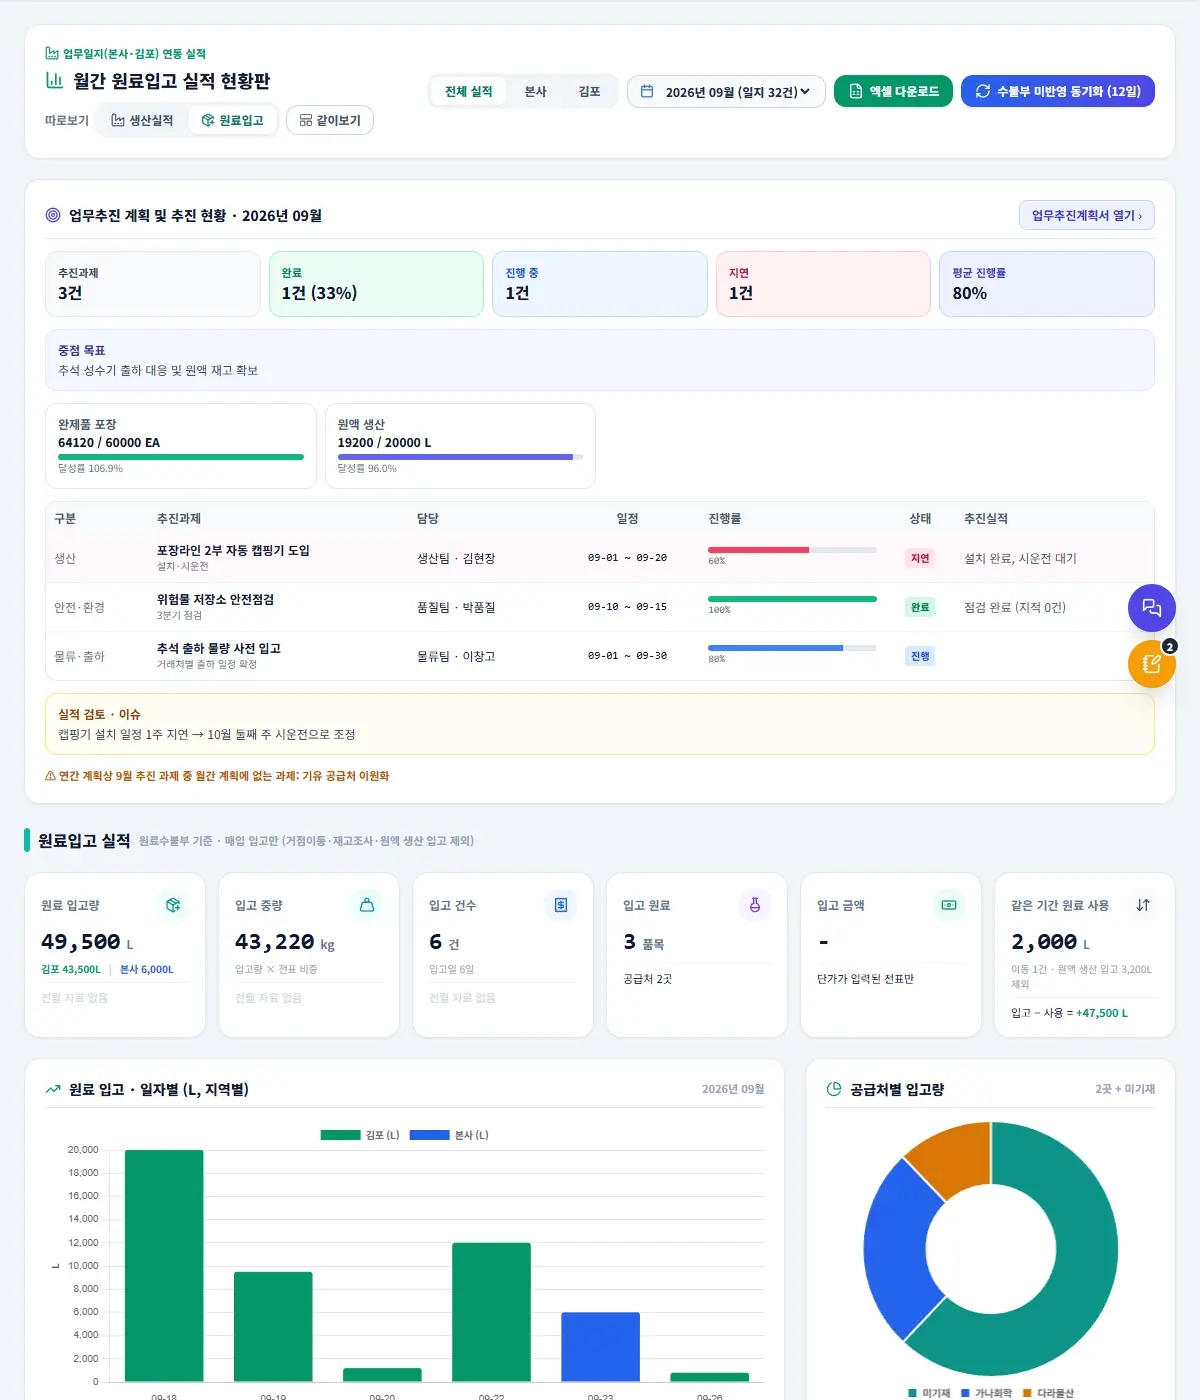
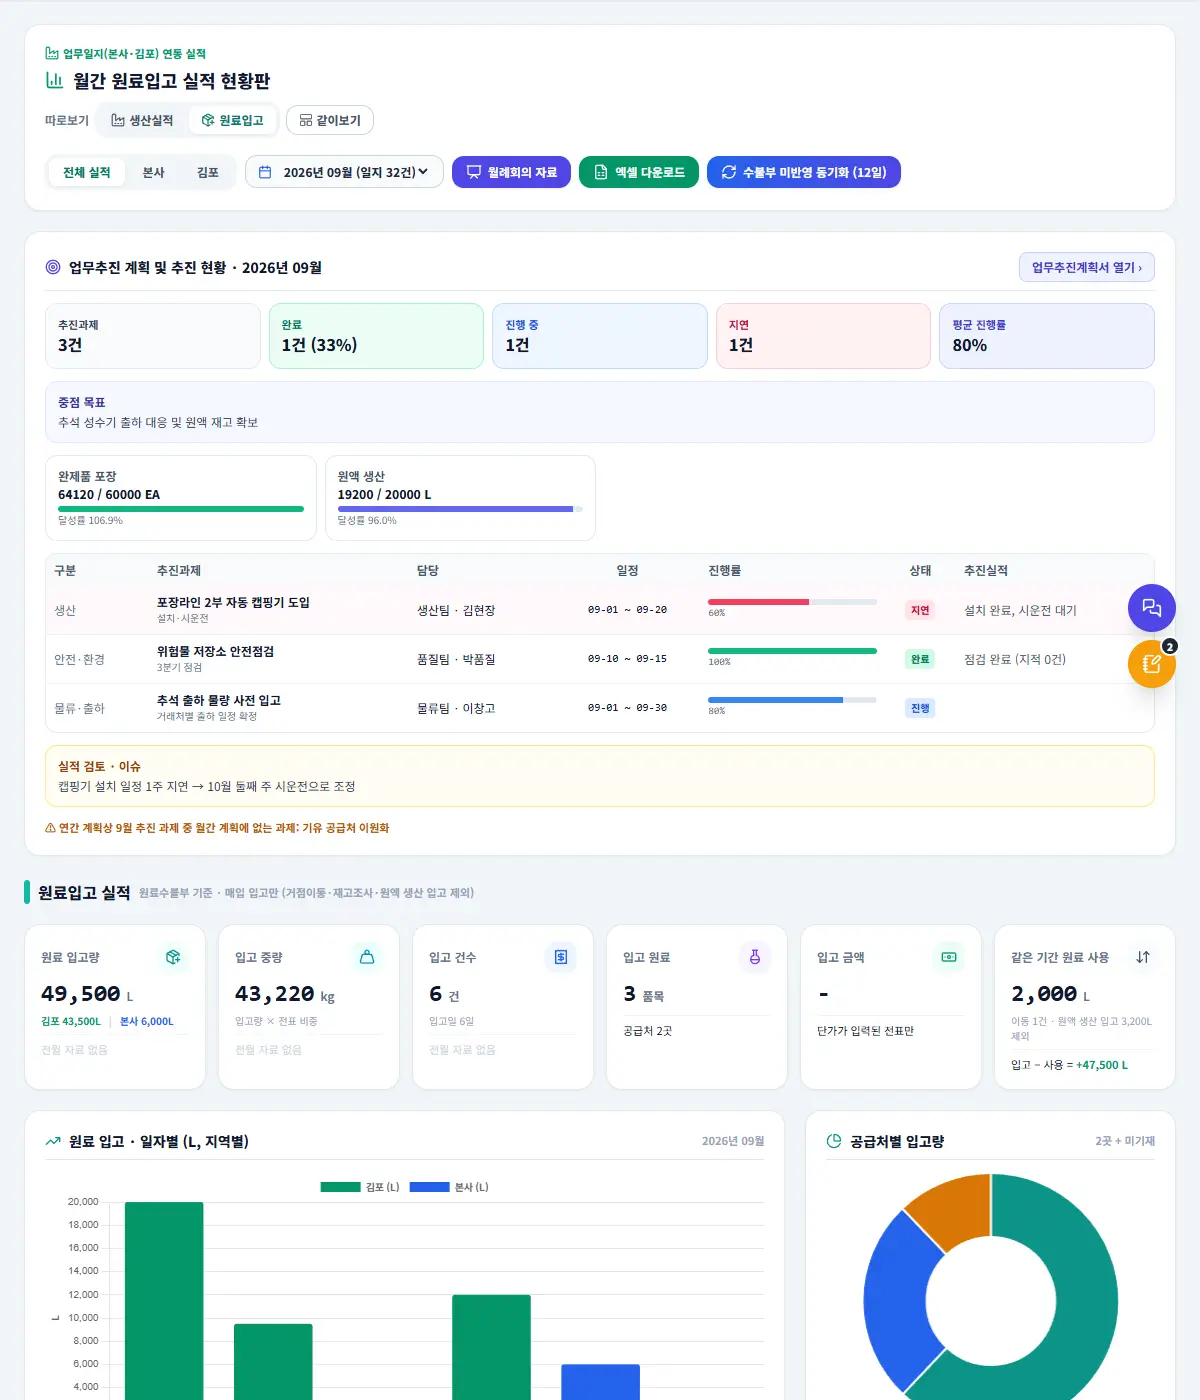
월례회의 자료·원료입고 실적 보정: 비고로 이동·원액 생산·재고입고 전표 제외, 공급처를 비고에서 찾기, 이관 전표는 실제 입고일로, 계획 실적은 업무일지(첫 계획일부터)로 채움, 카테고리 도넛 상위 5개+그 밖

diff --git a/src/components/analytics/monthlyMeeting.js b/src/components/analytics/monthlyMeeting.js
@@ -36,9 +36,11 @@ const groupPlan = (lines) => {
     const m = new Map();
     lines.filter(l => l.code || l.name).forEach(l => {
         const k = `${l.site}|${l.type}|${l.code || l.name}`;
-        const g = m.get(k) || { site: l.site || '', type: l.type || '완제품', code: l.code || '', name: l.name || '', unit: l.unit || 'EA', qty: 0, done: 0, partners: new Set() };
+        const g = m.get(k) || { site: l.site || '', type: l.type || '완제품', code: l.code || '', name: l.name || '', unit: l.unit || 'EA', qty: 0, done: 0, entered: false, firstDate: l.date || '', partners: new Set() };
         g.qty += Number(l.qty) || 0;
+        if (l.date && (!g.firstDate || l.date < g.firstDate)) g.firstDate = l.date;
         g.done += l.status === 'DONE' ? (Number(l.doneQty) || Number(l.qty) || 0) : (Number(l.doneQty) || 0);
+        if (l.status === 'DONE' || Number(l.doneQty) > 0) g.entered = true;
         if (l.partner) g.partners.add(l.partner);
         m.set(k, g);
     });
@@ -73,6 +75,18 @@ export const collectMeetingData = async (snap, form) => {
         getPlan('PROD_MONTH', ym), getPlan('PROD_MONTH', nym), loadWorkPlan('WORK_MONTH', ym), loadWorkPlan('WORK_MONTH', nym)
     ]);
     const plan = groupPlan(prodThis.lines.filter(siteOk));
+    // 계획 화면에 실적을 적지 않은 품목은 업무일지의 포장(완제품)·원액 생산 실적으로 채운다
+    // (같은 거점, 품목코드 또는 품목명, 그 품목의 첫 계획일부터 그 달 말까지 — 계획 전에 만든 양은 넣지 않음)
+    const siteKey = { 본사: 'HQ', 김포: 'GIMPO' };
+    const codeOf = (item) => String(item || '').split(' / ')[0].trim();
+    const nameOf = (item) => String(item || '').split(' / ').slice(1).join(' / ').split(' | ')[0].trim();
+    plan.forEach(r => {
+        if (r.entered) { r.src = '계획 입력'; return; }
+        const rows = snap.days.filter(d => d.site === siteKey[r.site] && (!r.firstDate || d.date >= r.firstDate)).flatMap(d => (r.type === '원액' ? d.log.oilBlending : d.log.packaging) || []);
+        const qty = rows.filter(x => (r.code && codeOf(x.item) === r.code) || (!r.code && nameOf(x.item) === r.name) || String(x.item || '').trim() === r.name)
+            .reduce((a, x) => a + (Number(x.qty) || 0), 0);
+        if (qty > 0) { r.done = qty; r.src = '업무일지'; }
+    });
     const planNext = groupPlan(prodNext.lines.filter(siteOk));
     const planTot = (rows, type, k) => rows.filter(r => r.type === type).reduce((s, r) => s + r[k], 0);
     const raw = computeRawInbound(ym, snap.view);
@@ -100,7 +114,8 @@ const chartSets = (D) => {
     const topPlan = D.plan.filter(r => r.type === '완제품').slice(0, 10);
     return {
         pack: { labels: dates.map(d => d.slice(5)), series: sites.map(x => ({ name: `${SITE_LABEL[x]} (EA)`, values: dates.map(d => val(x, d, 'pack')), color: SITE_COLOR[x] })) },
-        category: { labels: s.categories.slice(0, 8).map(c => c[0]), series: [{ name: '포장(EA)', values: s.categories.slice(0, 8).map(c => c[1]) }] },
+        // 작은 조각은 이름이 겹치므로 상위 5개 + 나머지는 '그 밖'으로 묶는다
+        category: (() => { const top = s.categories.slice(0, 5), rest = s.categories.slice(5).reduce((a, c) => a + c[1], 0); return { labels: [...top.map(c => c[0]), ...(rest ? ['그 밖'] : [])], series: [{ name: '포장(EA)', values: [...top.map(c => c[1]), ...(rest ? [rest] : [])] }] }; })(),
         oil: { labels: oilDates.map(d => d.slice(5)), series: sites.map(x => ({ name: `${SITE_LABEL[x]} (L)`, values: oilDates.map(d => val(x, d, 'oil')), color: SITE_COLOR[x] })) },
         manhours: { labels: ['제품포장', '원액생산', '라벨부착', '기타업무'], series: [{ name: '공수', values: [s.t.mhPack, s.t.mhOil, s.t.mhLabel, s.t.mhOther].map(v => Math.round(v * 10) / 10) }] },
         raw: { labels: rawDates.map(d => d.slice(5)), series: (rawRegions.length ? rawRegions : D.raw.regions.slice(0, 1)).map(g => ({ name: `${g} (L)`, values: rawDates.map(d => D.raw.rows.filter(r => r.date === d && r.region === g).reduce((a, r) => a + r.qty, 0)), color: REGION_COLORS[g] || '#475569' })) },
@@ -202,8 +217,9 @@ export const exportMeetingPdf = async (D, w = window.open('', '_blank')) => {
     if (on('plan')) {
         const rows = D.plan;
         sec.push(`<div class="block">${h2(`${ymLabel(D.ym)} 생산계획 대비 실적`)}<p class="lead">완제품 계획 ${fmt(D.planKpi.prodPlan)} · 실적 ${fmt(D.planKpi.prodDone)} · 달성률 <b>${D.planKpi.prodPlan ? pctText(D.planKpi.prodDone, D.planKpi.prodPlan) : '-'}</b>${D.planKpi.oilPlan ? ` · 원액 계획 ${fmt(D.planKpi.oilPlan)} L / 실적 ${fmt(D.planKpi.oilDone)} L` : ''}</p>
+            <p class="small">실적 = 생산계획에 적은 실적 수량, * 표시는 적지 않아 업무일지의 포장·원액 생산 실적(그 품목의 첫 계획일부터)으로 채운 값</p>
             ${img.planVs ? `<img class="chart" src="${img.planVs}">` : ''}
-            ${table(['거점', '구분', '품목', '계획', '실적', '달성률', '단위'], rows.slice(0, 15).map(r => [esc(r.site), esc(r.type), esc(r.name), fmt(r.qty), fmt(r.done), pctText(r.done, r.qty), esc(r.unit)]), { widths: [12, 14, 0, 20, 20, 16, 12], cls: ['c', 'c', '', 'r', 'r', 'r', 'c'], empty: '이 달 생산계획 없음' })}${more(rows.length, 15)}
+            ${table(['거점', '구분', '품목', '계획', '실적', '달성률', '단위'], rows.slice(0, 15).map(r => [esc(r.site), esc(r.type), esc(r.name), fmt(r.qty), `${fmt(r.done)}${r.src === '업무일지' ? '*' : ''}`, pctText(r.done, r.qty), esc(r.unit)]), { widths: [12, 14, 0, 20, 20, 16, 12], cls: ['c', 'c', '', 'r', 'r', 'r', 'c'], empty: '이 달 생산계획 없음' })}${more(rows.length, 15)}
             ${note(D.prodHead?.notes || D.prodHead?.goals || '')}</div>`);
     }
     if (on('purch')) {
@@ -372,8 +388,9 @@ export const exportMeetingPpt = async (D) => {
     if (on('plan')) {
         const a = add(`${ymLabel(D.ym)} 생산계획 대비 실적`, D.planKpi.prodPlan ? `달성률 ${pctText(D.planKpi.prodDone, D.planKpi.prodPlan)}` : '');
         lead(a, `완제품 계획 ${fmt(D.planKpi.prodPlan)} · 실적 ${fmt(D.planKpi.prodDone)} · 달성률 ${D.planKpi.prodPlan ? pctText(D.planKpi.prodDone, D.planKpi.prodPlan) : '-'}${D.planKpi.oilPlan ? ` · 원액 계획 ${fmt(D.planKpi.oilPlan)} L / 실적 ${fmt(D.planKpi.oilDone)} L` : ''}`);
-        barChart(a, C.planVs, { x: 0.45, y: 1.7, w: 6.2, h: 5.1 });
-        table(a, ['거점', '구분', '품목', '계획', '실적', '달성'], D.plan.map(r => [r.site, r.type, r.name, fmt(r.qty), fmt(r.done), pctText(r.done, r.qty)]), { x: 6.85, y: 1.7, w: 6.05 }, { colW: [0.6, 0.7, 2.3, 0.85, 0.85, 0.75], align: ['center', 'center', 'left', 'right', 'right', 'right'], maxRows: 14, fontSize: 9.5 });
+        barChart(a, C.planVs, { x: 0.45, y: 1.7, w: 6.2, h: 5.0 });
+        table(a, ['거점', '구분', '품목', '계획', '실적', '달성'], D.plan.map(r => [r.site, r.type, r.name, fmt(r.qty), `${fmt(r.done)}${r.src === '업무일지' ? '*' : ''}`, pctText(r.done, r.qty)]), { x: 6.85, y: 1.7, w: 6.05 }, { colW: [0.6, 0.7, 2.3, 0.85, 0.85, 0.75], align: ['center', 'center', 'left', 'right', 'right', 'right'], maxRows: 14, fontSize: 9.5 });
+        a.addText('실적 = 생산계획에 적은 실적 수량, * 표시는 적지 않아 업무일지의 포장·원액 생산 실적(첫 계획일부터)으로 채운 값', { x: 0.45, y: 6.72, w: 12.4, h: 0.3, fontSize: 9, color: '64748B', fontFace: F });
     }
     if (on('purch')) {
         const p = D.purch;

diff --git a/src/components/analytics/rawInbound.js b/src/components/analytics/rawInbound.js
@@ -12,6 +12,12 @@ const REGION_ORDER = ['김포', '본사', '방산', '김포2'];
 const MOVE_RE = /이동|인수|->|→|캠프|켐프|재고관리|회수/;
 const ADJUST_RE = /재고|조사|확인|조정|재입고|반납|수불|대여/;
 const GENERIC_TYPES = new Set(['입고', '재입고', '매입', '구매']);
+// 비고(notes)로 가려내기: 업무일지 반영 전표는 비고에 '[날짜 … 생산일지] 제품이동 …' / '원액 블렌딩 생산 완료' 가 적힌다
+const NOTE_MOVE_RE = /제품이동|에서 이동|이동\)|→|->/;
+const NOTE_OIL_RE = /원액 블렌딩|블렌딩 생산|생산 완료/;
+const NOTE_ADJUST_RE = /재고입고|재고조사|재고 조정|재고조정/;
+const SITE_WORDS = new Set(['본사', '김포', '방산', '김포2', '김포공장', '방산공장', '김포2공장']);
+const noteOf = (e) => String(e.notes || '').trim();
 // 업무일지 보기(전체/본사/김포) → 원료수불부 지역
 export const regionsOfView = (view) => (view === 'HQ' ? ['본사'] : view === 'GIMPO' ? ['김포'] : REGION_ORDER);
 
@@ -20,16 +26,29 @@ const masterOf = (e) => (e.code && state.master.find(m => m.code === e.code)) ||
 export const classifyRawEntry = (e) => {
     const type = String(e.type || '').trim();
     if ((Number(e.inQty) || 0) <= 0) return (Number(e.outQty) || 0) > 0 && !MOVE_RE.test(type) && !ADJUST_RE.test(type) ? 'USE' : 'OTHER';
+    const note = noteOf(e);
     if (MOVE_RE.test(type) || /^김포/.test(type)) return 'MOVE';
     if (ADJUST_RE.test(type)) return 'ADJUST';
+    if (NOTE_OIL_RE.test(note)) return 'OIL';
+    if (NOTE_MOVE_RE.test(note) || SITE_WORDS.has(note)) return 'MOVE'; // 비고가 거점 이름뿐 = 그 거점에서 받은 이동
+    if (NOTE_ADJUST_RE.test(note)) return 'ADJUST';
     if (masterOf(e)?.category === '원액') return 'OIL';
     return 'BUY';
 };
+// 공급처: 구분 칸의 거래처 이름 → 비고의 '원부자재 입고 (거래처)' → 비고가 거래처 이름뿐인 경우 → 제조사
 export const supplierOf = (e) => {
     const type = String(e.type || '').replace(/^입고\s*[,·/]\s*/, '').trim();
     if (type && !GENERIC_TYPES.has(type)) return type;
+    const note = noteOf(e);
+    const inParen = note.match(/원부자재 입고\s*\(([^)]+)\)/);
+    if (inParen) return inParen[1].trim();
+    if (note && note.length <= 25 && !/\[|입고|이동|재고|생산|샘플|반품/.test(note)) return note;
     return String(e.manufacturer || '').trim() || '미기재';
 };
+
+// 실적 날짜: 업무일지에서 옮겨 적은 전표는 비고 앞의 '[YYYY-MM-DD … 생산일지]'가 실제 날짜
+// (입출고 이력을 원료수불부로 이관할 때 이관한 날짜로 들어간 전표가 있음)
+export const actualDateOf = (e) => (noteOf(e).match(/^\[(\d{4}-\d{2}-\d{2})/) || [])[1] || e.date;
 
 // ym: 'YYYY-MM' 또는 'ALL'
 export const computeRawInbound = (ym, view) => {
@@ -37,7 +56,8 @@ export const computeRawInbound = (ym, view) => {
     const inMonth = (d) => ym === 'ALL' || String(d || '').startsWith(ym);
     const rows = [];
     let useQty = 0, moveCount = 0, oilQty = 0;
-    for (const e of state.rawLedger || []) {
+    for (const e0 of state.rawLedger || []) {
+        const e = { ...e0, date: actualDateOf(e0) };
         if (!inMonth(e.date)) continue;
         const region = e.location || '김포';
         if (!regions.includes(region)) continue;
@@ -67,7 +87,7 @@ export const computeRawInbound = (ym, view) => {
 };
 
 // 원료수불부에 입고 전표가 있는 달 목록 (월 선택 목록에 합친다)
-export const rawInboundMonths = () => [...new Set((state.rawLedger || []).filter(e => (Number(e.inQty) || 0) > 0 && e.date).map(e => String(e.date).slice(0, 7)))];
+export const rawInboundMonths = () => [...new Set((state.rawLedger || []).filter(e => (Number(e.inQty) || 0) > 0 && e.date).map(e => String(actualDateOf(e)).slice(0, 7)))];
 
 const fmt = (n, d = 0) => (Number(n) || 0).toLocaleString(undefined, { maximumFractionDigits: d });
 
